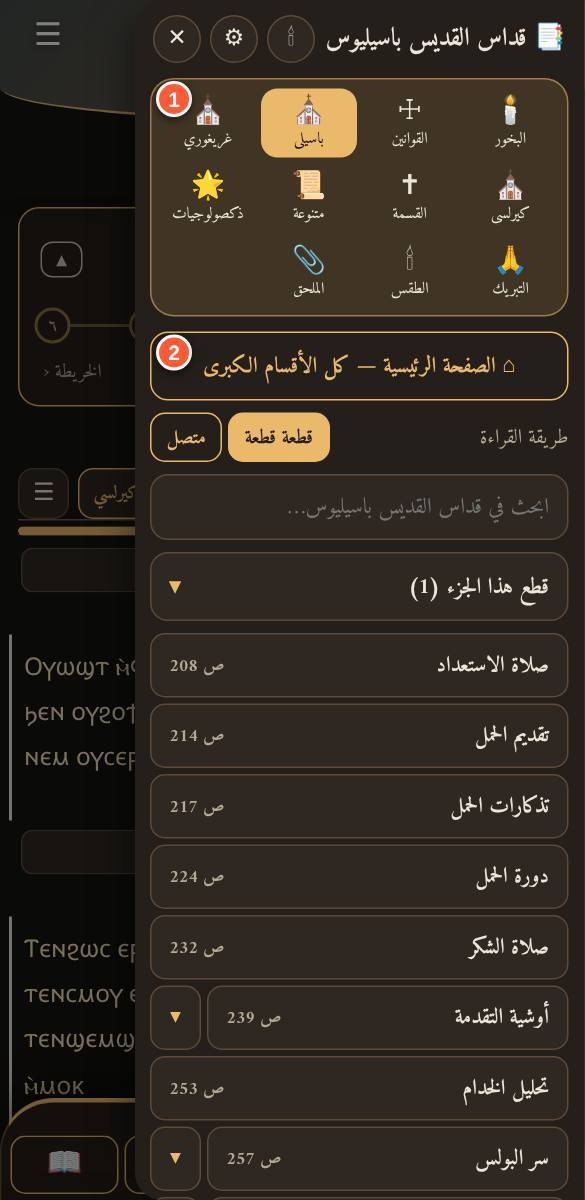
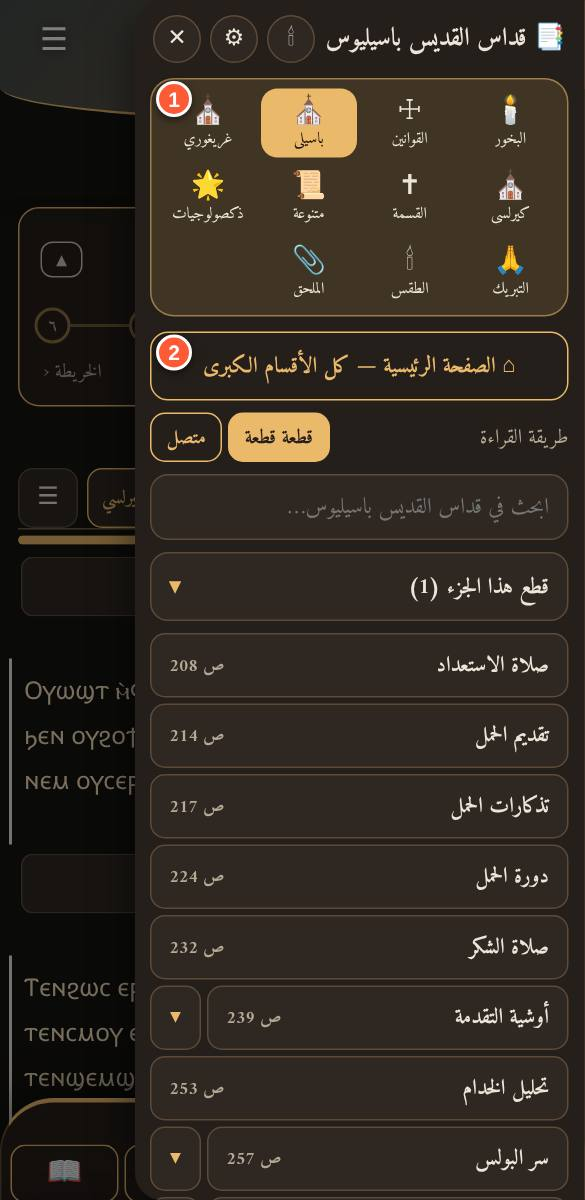
رأس قراءة أخف (زر ⋯) وصفحة بعد القداس بلحظة ختام (r143)
Claude-Session: https://claude.ai/code/session_01TxsQH8W41ZBNhnMhe9bVaK

diff --git a/index.html b/index.html
@@ -779,6 +779,15 @@ input[type=checkbox]:focus-visible{outline-offset:3px}
 html[data-mode="dark"] :root:root .exp .expl,html[data-mode="dark"] .exp .expl{color:#1a1405!important}
 .exp sup.fn{color:var(--ex-acc,var(--acc))}.med sup.fn{color:var(--md-acc,var(--acc))}
 .idxh{color:var(--ink)}
+
+/* بعد القداس: لحظة الذروة والنهاية */
+.fin{margin:4px 14px 8px;text-align:center}.fin svg{width:72px;height:72px;display:block;margin:6px auto 12px;fill:none;stroke:var(--acc);stroke-width:3;stroke-linecap:round;stroke-linejoin:round;filter:drop-shadow(0 6px 14px color-mix(in srgb,var(--acc) 40%,transparent))}
+.fin svg circle{stroke-dasharray:145;stroke-dashoffset:145;animation:findraw .7s ease-out forwards}.fin svg path{stroke-dasharray:44;stroke-dashoffset:44;animation:findraw .45s .55s ease-out forwards}
+@keyframes findraw{to{stroke-dashoffset:0}}
+.fin .sum{margin:0}
+.fin0{padding:24px 16px;border:1.5px dashed var(--line);border-radius:18px;background:var(--card)}.fin0 i{display:block;font-style:normal;font-size:2.4rem;margin-bottom:8px}.fin0 b{display:block;font-size:1.2rem;margin-bottom:4px}.fin0 small{color:var(--mute);line-height:1.8}
+.pend{margin:18px 14px 8px;text-align:center;color:var(--mute);font-size:.88rem}
+@media (prefers-reduced-motion:reduce){.fin svg circle,.fin svg path{animation:none;stroke-dashoffset:0}}
 </style>
 </head>
 <body>
@@ -947,7 +956,7 @@ function unitParts(id,s,c,us,u,q,cols){
   var U=us[u],n=us.length,isDox=s.group.id==="dox",st={alt:0,dr:S.ex==="drawer"},pct=Math.round((u+1)/n*100);
   var si=(S.story!==false&&window.KST)?storyIdx(id):-1,few=U.med.length<=2;
   var syo=window.KS?KS.syncOthers(id):null,syb=syo?syo.map(function(x){return x.id?'<button data-syncgo="'+x.id+'" data-sl="'+x.lit+'" class="syb" aria-label="انتقل إلى '+KS.lname[x.lit]+'" title="'+esc(x.title)+' — اضغط مطولا لكل المقابلات">⇄ '+KS.lshort[x.lit]+'</button>':'<button class="syb off" disabled aria-label="لا مقابل في '+KS.lname[x.lit]+'">⇄ '+KS.lshort[x.lit]+'</button>'}).join(""):'';
-  var inner=(si>=0?stripHtml(si):'')+'<div class="unh"><span>القطعة '+ar9(u+1)+' من '+ar9(n)+(U.who?' · '+esc(U.who):'')+'</span><span class="unhb"><button data-whc="1" class="whb'+(S.wh!=="off"?' on':'')+'" aria-label="همسات الصلاة">🕊</button><button data-live="1" aria-label="وضع الكنيسة">🕯</button>'+syb+'<button data-uidx="1" aria-label="فهرس القطع" title="فهرس القطع">☰</button></span></div><div class="unb"><i style="width:'+pct+'%"></i></div>';
+  var inner=(si>=0?stripHtml(si):'')+'<div class="unh"><span>القطعة '+ar9(u+1)+' من '+ar9(n)+(U.who?' · '+esc(U.who):'')+'</span><span class="unhb"><button data-more="1" aria-label="خيارات القراءة" title="الهمسات ووضع الكنيسة">⋯</button>'+syb+'<button data-uidx="1" aria-label="فهرس القطع" title="فهرس القطع">☰</button></span></div><div class="unb"><i style="width:'+pct+'%"></i></div>';
   var sheetMed=S.med&&U.med.length&&(S.mp!=="after"||S.ml==="drawer");
   var tabs=[],exs=S.ex==="drawer"?U.items.filter(isExp):[];
   if(sheetMed)tabs.push(["b","💭","تأمل"+(U.med.length>1?" ("+ar9(U.med.length)+")":"")]);
@@ -1209,10 +1218,12 @@ function dmEnd(){
 function logGet(){try{return JSON.parse(localStorage.getItem("khulagi.log")||"[]")}catch(e){return[]}}
 function postView(){
   ctl(false);document.title="بعد القداس — الخولاجي";var ids=sessGet().filter(function(x){return BYID[x]}),lg=logGet();
-  var h='<div class="sub" style="padding:6px 14px 0">بعد القداس</div><div class="hd" style="padding:0 14px 10px">بارك الله صلاتك</div><div class="sum"><div><b>'+ar9(ids.length)+'</b><small>أقسام صليتها</small></div><div><b>'+ar9(lg.length)+'</b><small>قداسات في سجلك</small></div></div>';
+  var h='<div class="sub" style="padding:6px 14px 0">بعد القداس</div><div class="hd" style="padding:0 14px 10px">بارك الله صلاتك</div>';
+  h+=ids.length?'<div class="fin"><svg viewBox="0 0 52 52" aria-hidden="true"><circle cx="26" cy="26" r="23"/><path d="M15 27l8 8 15-17"/></svg><div class="sum"><div><b>'+ar9(ids.length)+'</b><small>أقسام صليتها اليوم</small></div><div><b>'+ar9(lg.length)+'</b><small>قداسات في سجلك</small></div></div></div>':'<div class="fin fin0"><i>🕊</i><b>سلامٌ لك</b><small>صلِّ أي قسم من القداس ثم ارجع إلى هنا لترى ملخصك.</small></div>';
   if(ids.length)h+='<div class="lst" style="margin:10px 14px">'+ids.map(function(id){return '<div class="chk"><div class="c ok">✓</div><div><b>'+esc(BYID[id].title)+'</b></div></div>'}).join("")+'</div>';
   h+='<div class="tdl">أصلي من أجل</div><textarea id="pnote" class="area" placeholder="اكتب سطرًا واحدًا يبقى في سجلك…"></textarea><button class="tdstart" data-postsave="1">حفظ في سجلي</button>';
   if(lg.length)h+='<div class="tdl">آخر ما سجّلت</div><div class="lst" style="margin:0 14px">'+lg.slice(-6).reverse().map(function(x){var d=new Date(x.t);return '<div class="chk"><div><b>'+ar9(d.getDate())+'/'+ar9(d.getMonth()+1)+' · '+ar9(x.n)+' أقسام</b>'+(x.note?'<small>'+esc(x.note)+'</small>':'')+'</div></div>'}).join("")+'</div>';
+  h+='<p class="pend">الربُّ معكم · إلى لقاءٍ قريب</p>';
   h+=bnav('home');app.innerHTML=h;window.scrollTo(0,0)}
 function dmBar(){var DM=false,id=(location.hash.match(/^#\/s\/([^?]+)/)||[])[1],b=document.getElementById("dmbar"),p=document.getElementById("dmpanel");
   var nv0=document.getElementById("dmnav");
@@ -1358,6 +1369,7 @@ app.addEventListener("click",function(e){
   var lt=e.target.closest("[data-lit]");if(lt){S.lit=lt.getAttribute("data-lit");save();home();return}
   var bn=e.target.closest("[data-bn]");if(bn){var k2=bn.getAttribute("data-bn");if(k2==="home"){OPENHOME=true;if(location.hash==="#/"||location.hash===""||location.hash==="#"){todayView()}else location.hash="#/"}else if(k2==="lit")location.hash="#/lit";else if(k2==="lists")location.hash="#/dxlist";else if(k2==="lib")location.hash="#/lib";else if(k2==="search")openSearch();else if(k2==="map")openIdx();else if(k2==="med")location.hash="#/med";else if(k2==="study"){sheet('<h3>دراسة</h3><div class="list"><button class="sec" data-nav="#/compare"><span>مقارنة بين القداسات الثلاثة</span><span class="pn">‹</span></button><button class="sec" data-nav="#/lex"><span>قاموس القبطي المعرَّب</span><span class="pn">‹</span></button><button class="sec" data-nav="#/g/taqs"><span>دليل طقس القداس</span><span class="pn">‹</span></button><button class="sec" data-nav="#/plan"><span>خطتي</span><span class="pn">‹</span></button></div>')}return}
   var m1=e.target.closest("[data-m1]");if(m1){var b1=m1.nextElementSibling,o1=b1.hasAttribute("hidden");o1?b1.removeAttribute("hidden"):b1.setAttribute("hidden","");m1.setAttribute("aria-expanded",o1);var c1=m1.querySelector(".ch");if(c1)c1.textContent=o1?"▴":"▾";return}
+  if(e.target.closest("[data-more]")){var wl={off:"مخفية",strip:"مطوية",open:"مفتوحة",drawer:"في الدرج السفلي"}[S.wh]||"";sheet('<h3>خيارات القراءة</h3><div class="list"><button class="sec" data-live="1" data-gclose2="1"><span>🕯 وضع الكنيسة</span><small>نص كبير داكن للقراءة في الكنيسة</small></button><button class="sec" data-mowh="1"><span>🕊 همسات الصلاة</span><small>الحالة: '+wl+' · اضغط لتغيير الحالة</small></button></div>');return}
   var sgo=e.target.closest("[data-syncgo]");if(sgo){if(window.__lp){window.__lp=false;return}var gid=sgo.getAttribute("data-syncgo"),gl=+sgo.getAttribute("data-sl");if(BYID[gid]){usave(gid,0);PL=false;toast("↔ "+KS.lname[gl]+" · "+BYID[gid].title);location.hash="#/s/"+gid}return}
   var ex=e.target.closest("[data-exp]");if(ex){var eb=ex.nextElementSibling,eo=eb.hasAttribute("hidden");eo?eb.removeAttribute("hidden"):eb.setAttribute("hidden","");ex.setAttribute("aria-expanded",eo);ex.querySelector(".exc").textContent=eo?"▴":"▾";return}
   var wh=e.target.closest("[data-wh]");if(wh){var b2=wh.nextElementSibling,o2=b2.hasAttribute("hidden");o2?b2.removeAttribute("hidden"):b2.setAttribute("hidden","");wh.setAttribute("aria-expanded",o2);wh.firstChild.textContent="🕊 همسة "+(o2?"▴":"▾");return}
@@ -1438,6 +1450,8 @@ function settings(){
 }
 sh.addEventListener("click",function(e){
   if(e.target.closest("[data-gclose]")){close();location.hash="#/guide";return}
+  if(e.target.closest("[data-mowh]")){var ord2=["off","strip","open","drawer"],nx2=ord2[(ord2.indexOf(S.wh)+1)%4];S.wh=nx2;save();close();toast("همسات الصلاة: "+({off:"مخفية",strip:"مطوية",open:"مفتوحة",drawer:"في الدرج السفلي"})[nx2]);route();return}
+  if(e.target.closest("[data-gclose2]")){close();return}
   var snv=e.target.closest("[data-snav]");if(snv){var sid=snv.getAttribute("data-snav");close();if(BYID[sid]){usave(sid,0);PL=false;location.hash="#/s/"+sid}return}
   var uj=e.target.closest("[data-uj]");if(uj){close();if(!setUnit(+uj.getAttribute("data-uj")))reader(CUR.id,undefined,+uj.getAttribute("data-uj"));return}
   var sg=e.target.closest("[data-stg]");if(sg){var k=sg.getAttribute("data-stg");STG[k]=!STG[k];var bx=sg.parentNode;bx.classList.toggle("open",!!STG[k]);sg.setAttribute("aria-expanded",!!STG[k]);return}

diff --git a/tools/make-guide.js b/tools/make-guide.js
@@ -21,7 +21,7 @@ const SPECS=[
 {id:'pre',title:'قبل القداس',hash:'#/pre',summary:'أربع خطوات قصيرة تجهّز بها قبل أن تبدأ.',
  marks:[['.chk@0','١. القداس','اختر الذي ستصليه.'],['.chk@1','٢. قائمتك','القائمة الحالية وعدد أقسامها. «فتح قوائمي» لتعديلها.'],['.chk@2','٣. اقتراحات اليوم','ذكصولوجيات تناسب تاريخ اليوم. ＋ لإضافتها.'],['.chk@3','٤. حجم الخط','اضبطه الآن ليبقى ثابتا طوال القداس.'],['[data-dmgo="lit"]','ابدأ القداس','يبدأ وضع الشماس من آخر مكان أو أول القداس.'],['[data-dmgo="list"]','ابدأ قائمتي','يبدأ القراءة من أول قسم في قائمتك ويتنقّل بترتيبها.']]},
 {id:'reader',title:'القراءة',hash:'#/s/bas-hulul',summary:'شاشة قراءة أي قسم: نص بثلاثة أعمدة (قبطي، معرَّب، عربي) مع إرشادات الطقس.',
- marks:[['#bsub','اسم القسم ▾','اضغط عليه لتنتقل بسرعة لأي قسم آخر.'],['#opts label:nth-of-type(1)','ع · م · ق','تظهر أو تخفي الأعمدة: العربي، المعرَّب، القبطي.'],['#btnSearch','بحث','يبحث في كل نصوص البرنامج.'],['.sts','رحلة المسيح','المحطة التي تقابل هذا الجزء من القداس (تفصيلها في صفحتها).'],['.unh [data-whc]','🕊 همسة','يظهر أو يخفي همسة صلاة قصيرة من وحي القطعة.'],['.unh [data-live]','🕯 وضع الكنيسة','نص كبير داكن للقراءة داخل الكنيسة.'],['.unh [data-uidx]','فهرس','قائمة قطع هذا القسم للانتقال لأي قطعة.'],['.unh .syb','⇄ القداس الآخر','زرّ لكل قداس آخر: ضغطة واحدة تفتح مقابل هذا القسم هناك من أوله، وتتحرك أنت داخله للمكان الذي تريده. المطوّلة تفتح كل المقابلات، والباهت يعني لا مقابل.'],['.unb','شريط التقدم','نسبة ما قرأته في هذا القسم.'],['.unp .rub, .rub','إرشاد (أحمر)','حركات الكاهن والشعب وما يقال.'],['#dsheet','الدرج السفلي','أيقونات فقط: 💭 تأمل، 📝 شروحات، 🕯 إرشادات، 📎 هوامش، 🧭 المحطة، 📖 دليل. يُفتح بالسحب لأعلى فقط (الضغط عليه وهو مغلق لا يفتحه)، ولأسفل ليُغلق؛ وبعد فتحه اضغط أيقونة لتبديل التبويب.'],['#dxfab','＋ / ✓','يضيف القسم لأي قائمة من قوائمك، ويفتح قائمة خياراتها.'],['#qfs','أ+ / أ−','تكبير وتصغير الخط فورا.']],
+ marks:[['#bsub','اسم القسم ▾','اضغط عليه لتنتقل بسرعة لأي قسم آخر.'],['#opts label:nth-of-type(1)','ع · م · ق','تظهر أو تخفي الأعمدة: العربي، المعرَّب، القبطي.'],['#btnSearch','بحث','يبحث في كل نصوص البرنامج.'],['.sts','رحلة المسيح','المحطة التي تقابل هذا الجزء من القداس (تفصيلها في صفحتها).'],['.unh [data-more]','⋯ خيارات القراءة','يفتح قائمة فيها 🕯 وضع الكنيسة (نص كبير داكن) و🕊 همسات الصلاة (مخفية / مطوية / مفتوحة / في الدرج).'],['.unh [data-uidx]','فهرس','قائمة قطع هذا القسم للانتقال لأي قطعة.'],['.unh .syb','⇄ القداس الآخر','زرّ لكل قداس آخر: ضغطة واحدة تفتح مقابل هذا القسم هناك من أوله، وتتحرك أنت داخله للمكان الذي تريده. المطوّلة تفتح كل المقابلات، والباهت يعني لا مقابل.'],['.unb','شريط التقدم','نسبة ما قرأته في هذا القسم.'],['.unp .rub, .rub','إرشاد (أحمر)','حركات الكاهن والشعب وما يقال.'],['#dsheet','الدرج السفلي','أيقونات فقط: 💭 تأمل، 📝 شروحات، 🕯 إرشادات، 📎 هوامش، 🧭 المحطة، 📖 دليل. يُفتح بالسحب لأعلى فقط (الضغط عليه وهو مغلق لا يفتحه)، ولأسفل ليُغلق؛ وبعد فتحه اضغط أيقونة لتبديل التبويب.'],['#dxfab','＋ / ✓','يضيف القسم لأي قائمة من قوائمك، ويفتح قائمة خياراتها.'],['#qfs','أ+ / أ−','تكبير وتصغير الخط فورا.']],
  nav:'للانتقال بين الأجزاء: «التالي» في آخر الصفحة، أو اسحب الشاشة، أو افتح الفهرس. هذه الأزرار تظهر هنا فقط.'},
 {id:'sidx',title:'الفهرس الجانبي',hash:'#/s/bas-hulul',setup:async p=>{await open(p,'#idxh')},summary:'يُفتح بالسحب من حافة اليمين. في أعلاه لوحة أزرار ثابتة بشكل مميّز للانتقال السريع بين الأقسام الكبرى، وتحتها الفهرس.',
  marks:[['.ixqj','انتقال سريع','لوحة أزرار ثابتة أعلى الفهرس (لا تُسحب يمينا ويسارا): اضغط أي قسم لتذهب إليه؛ القسم الحالي مضيء.'],['.ixhome','الصفحة الرئيسية','للرجوع لكل الأقسام الكبرى.']]},
@@ -35,7 +35,7 @@ const SPECS=[
 {id:'doxologies',title:'الذكصولوجيات',hash:'#/g/dox',setup:async p=>{await open(p,'[data-ddt="l"]');await open(p,'[data-ddl="م"]');await open(p,'[data-dds="ميخائيل رئيس الملائكه"]')},summary:'١٥٣ ذكصولوجية. تصل لأي واحدة بثلاث قوائم صغيرة: الحرف ثم القديس ثم الذكصولوجية.',
  marks:[['.dxbar .pri','قائمتي','اسم قائمتك الحالية وعدد أقسامها. يفتح «قوائمي».'],['.ddw>.ddf:nth-child(1) .ddsel','١. الحرف','يعرض الحروف الموجودة فعلا فقط. اختيار الحرف يفتح قائمة القديسين تلقائيا.'],['.ddw>.ddf:nth-child(2) .ddsel','٢. القديس','أسماء القديسين داخل الحرف بترتيب أبجدي بدون ألقاب، وتحت الاسم عدد ذكصولوجياته لو أكثر من واحدة.'],['.ddw>.ddf:nth-child(3) .ddsel','٣. الذكصولوجية','لو للقديس أكثر من ذكصولوجية تظهر مرقّمة (ذكصولوجية ١، ٢…) ومعها أول ٣ كلمات منها لتعرف أيها تفتح. لو له واحدة فقط تُختار وحدها.'],['.pdm .o:nth-child(2)','اختيار نسخة','اضغط الذكصولوجية المطلوبة فتظهر بطاقتها تحت القوائم مع ＋ للإضافة لقائمتك وزر «فتح».']]},
 {id:'post',title:'بعد القداس',hash:'#/post',summary:'ملخص هادئ لما صليته، وسطر شخصي يبقى في سجلك.',
- marks:[['.sum','الملخص','عدد الأقسام التي صليتها وعدد القداسات في سجلك.'],['#pnote','أصلي من أجل','اكتب سطرا يبقى في سجلك.'],['[data-postsave]','حفظ في سجلي','يحفظ الملاحظة وما صليته، وتظهر لاحقا تحت «آخر ما سجّلت».']]},
+ marks:[['.fin','الختام','علامة ✓ تُرسم بهدوء مع عدد الأقسام التي صليتها وعدد القداسات في سجلك؛ ولو لم تصلِّ شيئا تظهر رسالة سلام.'],['#pnote','أصلي من أجل','اكتب سطرا يبقى في سجلك.'],['[data-postsave]','حفظ في سجلي','يحفظ الملاحظة وما صليته، وتظهر لاحقا تحت «آخر ما سجّلت».']]},
 {id:'notes',title:'تأملي الشخصي',hash:'#/s/bas-hulul',setup:async p=>{await open(p,'.mnb')},summary:'اكتب تأملك الخاص تحت أي قطعة.',
  marks:[['#mnt','خانة التأمل','اكتب ما تأملته في هذه القطعة.'],['[data-mnsave]','حفظ','يُحفظ على جهازك فقط، ويظهر تحت القطعة وفي «تأملاتي» داخل المكتبة.']]},
 {id:'settings',title:'الإعدادات',hash:'#/',h:900,setup:async p=>{await open(p,'#btnSet');await open(p,'[data-stg="start"]')},summary:'كل قوائم الإعدادات مقفولة افتراضيا في كل مرة، وتفتح بالضغط على عنوانها. مجموعة «الخطوط» لكل نوع نص خطه المستقل. في «القراءة» تضبط التأملات والهمسات والشروحات كلًّا على حدة: مطوية أو مفتوحة أو في الدرج السفلي، ولكل نوع لون خلفية مميّز.',

diff --git a/guide-pages.js b/guide-pages.js
@@ -164,41 +164,36 @@ window.KG_PAGES=[
    ],
    [
     5,
-    "🕊 همسة",
-    "يظهر أو يخفي همسة صلاة قصيرة من وحي القطعة."
+    "⋯ خيارات القراءة",
+    "يفتح قائمة فيها 🕯 وضع الكنيسة (نص كبير داكن) و🕊 همسات الصلاة (مخفية / مطوية / مفتوحة / في الدرج)."
    ],
    [
     6,
-    "🕯 وضع الكنيسة",
-    "نص كبير داكن للقراءة داخل الكنيسة."
-   ],
-   [
-    7,
     "فهرس",
     "قائمة قطع هذا القسم للانتقال لأي قطعة."
    ],
    [
-    8,
+    7,
     "⇄ القداس الآخر",
     "زرّ لكل قداس آخر: ضغطة واحدة تفتح مقابل هذا القسم هناك من أوله، وتتحرك أنت داخله للمكان الذي تريده. المطوّلة تفتح كل المقابلات، والباهت يعني لا مقابل."
    ],
    [
-    9,
+    8,
     "شريط التقدم",
     "نسبة ما قرأته في هذا القسم."
    ],
    [
-    10,
+    9,
     "الدرج السفلي",
     "أيقونات فقط: 💭 تأمل، 📝 شروحات، 🕯 إرشادات، 📎 هوامش، 🧭 المحطة، 📖 دليل. يُفتح بالسحب لأعلى فقط (الضغط عليه وهو مغلق لا يفتحه)، ولأسفل ليُغلق؛ وبعد فتحه اضغط أيقونة لتبديل التبويب."
    ],
    [
-    11,
+    10,
     "＋ / ✓",
     "يضيف القسم لأي قائمة من قوائمك، ويفتح قائمة خياراتها."
    ],
    [
-    12,
+    11,
     "أ+ / أ−",
     "تكبير وتصغير الخط فورا."
    ]
@@ -266,16 +261,21 @@ window.KG_PAGES=[
    ],
    [
     3,
+    "اقتراحات اليوم",
+    "ذكصولوجيات تناسب اليوم. ＋ لإضافتها، أو «أضف الكل»."
+   ],
+   [
+    4,
     "ابدأ القراءة",
     "يقرأ من أول قسم ويتنقل بترتيب القائمة."
    ],
    [
-    4,
+    5,
     "الترتيب",
     "رقم القسم في القائمة."
    ],
    [
-    5,
+    6,
     "▲ ▼ ✕",
     "تحريك القسم لأعلى أو لأسفل أو حذفه."
    ]
@@ -348,8 +348,8 @@ window.KG_PAGES=[
   "items": [
    [
     1,
-    "الملخص",
-    "عدد الأقسام التي صليتها وعدد القداسات في سجلك."
+    "الختام",
+    "علامة ✓ تُرسم بهدوء مع عدد الأقسام التي صليتها وعدد القداسات في سجلك؛ ولو لم تصلِّ شيئا تظهر رسالة سلام."
    ],
    [
     2,

diff --git a/guide-news.js b/guide-news.js
@@ -1,6 +1,7 @@
 /* سجل الميزات الجديدة (الأحدث أولا). كل ميزة جديدة تُضاف هنا كمدخل جديد في أعلى القائمة،
    ثم تُحدَّث مواصفة الصفحة المتأثرة في tools/make-guide.js وتُعاد اللقطات (node tools/make-guide.js). */
 window.KG_NEWS=[
+{v:"r143",t:"رأس قراءة أخف وصفحة «بعد القداس» أدفأ",x:"في رأس القراءة صار 🕊 الهمسات و🕯 وضع الكنيسة داخل زر واحد «⋯» (يفتح خيارات القراءة) فبقي في الصف زر الخيارات وزرّا القداسين والفهرس فقط. وصفحة «بعد القداس» صارت بلحظة ختام: علامة ✓ تُرسم بهدوء مع ملخص ما صليته، وإن لم تصلِّ شيئا تظهر رسالة سلام بدل الأصفار، وفي آخرها «الرب معكم · إلى لقاء قريب»."},
 {v:"r142",t:"تحسينات إتاحة (وصول)",x:"فحص تباين الألوان في الثيمات الـ١١: ظُلّلت ألوان التمييز في الثيمات الفاتحة، وصُحّح تباين رقم الشرح والهوامش ومقاطع الذكصولوجيات. مؤشر تركيز واضح عند التنقل بلوحة المفاتيح، وأزرار رأس القراءة أكبر (٤٠ بكسل) لتسهل على اللمس."},
 {v:"r141",t:"إصلاح: أزرار المقابل لا تغيب عند فتح البرنامج",x:"كانت أزرار الانتقال للقداسين الآخرين قد لا تظهر أحيانا عند فتح البرنامج مباشرة على قسم؛ أصبحت تظهر دائما."},
 {v:"r140",t:"الانتقال للقسم من أوله فقط",x:"زرّا القداسين الآخرين يفتحان القسم المقابل من أوله، وتتحرك أنت داخله إلى المكان الذي تريده. أُلغي صف «صلاة الصلح: الأولى · الثانية» وأي اقتراح تلقائي لصلاة بعينها، وأُزيلت تسميتا «المقابل الأساسي» و«جزء مرتبط» من قائمة الضغط المطوّل."},

diff --git a/sw.js b/sw.js
@@ -1,4 +1,4 @@
-const CACHE_NAME='khulagi-v1.5-shell-r142';
+const CACHE_NAME='khulagi-v1.5-shell-r143';
 const FILES=['./','index.html','guide-news.js','guide-pages.js','guide/doxologies.jpg','guide/library.jpg','guide/lists.jpg','guide/lit.jpg','guide/notes.jpg','guide/post.jpg','guide/pre.jpg','guide/reader.jpg','guide/settings.jpg','guide/sidx.jpg','guide/splash.jpg','guide/story.jpg','guide/today.jpg','reemkufi-arabic-700-normal.woff2','dawn.jpg','data.js','study.js','swipe.js','live.js','story.js','study-data.js','data-bible.js','content-raf.txt','content-bas.txt','content-greg.txt','content-cyr.txt','content-qisam.txt','content-misc.txt','content-bless.txt','content-app.txt','content-taqs.txt','content-dox.txt','manifest.webmanifest','icon-192.png','icon-512.png','amiri-arabic-400-normal.woff2','amiri-arabic-700-normal.woff2','amiri-latin-400-normal.woff2','tajawal-arabic-400.woff2','tajawal-latin-400.woff2','tajawal-arabic-700.woff2','tajawal-latin-700.woff2','cairo-arabic-400-normal.woff2','cairo-arabic-700-normal.woff2','el-messiri-arabic-400-normal.woff2','el-messiri-arabic-700-normal.woff2','lateef-arabic-400-normal.woff2','lateef-arabic-700-normal.woff2','markazi-text-arabic-400-normal.woff2','markazi-text-arabic-700-normal.woff2','noto-naskh-arabic-arabic-400-normal.woff2','noto-naskh-arabic-arabic-700-normal.woff2','reem-kufi-arabic-400-normal.woff2','reem-kufi-arabic-700-normal.woff2','scheherazade-new-arabic-400-normal.woff2','scheherazade-new-arabic-700-normal.woff2','amiri-latin-700-normal.woff2','noto-sans-coptic-coptic-400-normal.woff2','noto-sans-coptic-latin-400-normal.woff2'];
 self.addEventListener('install',e=>{e.waitUntil(caches.open(CACHE_NAME).then(c=>Promise.all(FILES.map(f=>c.add(new Request(f,{cache:'reload'})).catch(()=>{})))).then(()=>self.skipWaiting()))});
 self.addEventListener('activate',e=>{e.waitUntil(caches.keys().then(k=>Promise.all(k.filter(x=>x!==CACHE_NAME).map(x=>caches.delete(x)))).then(()=>self.clients.claim()))});
